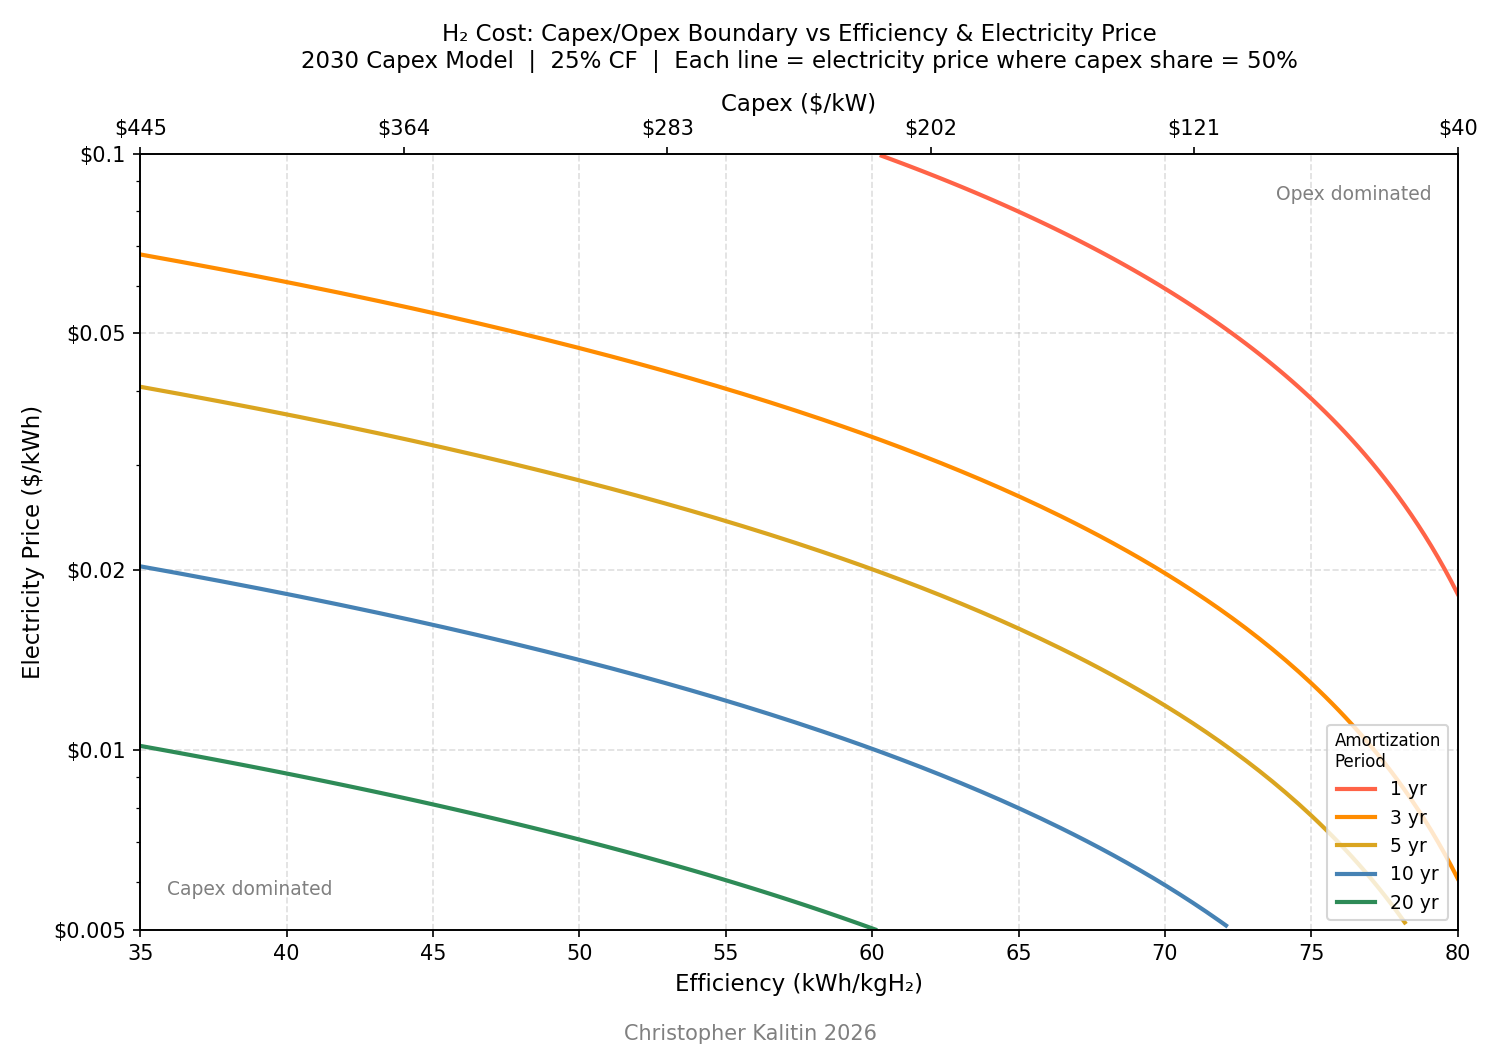
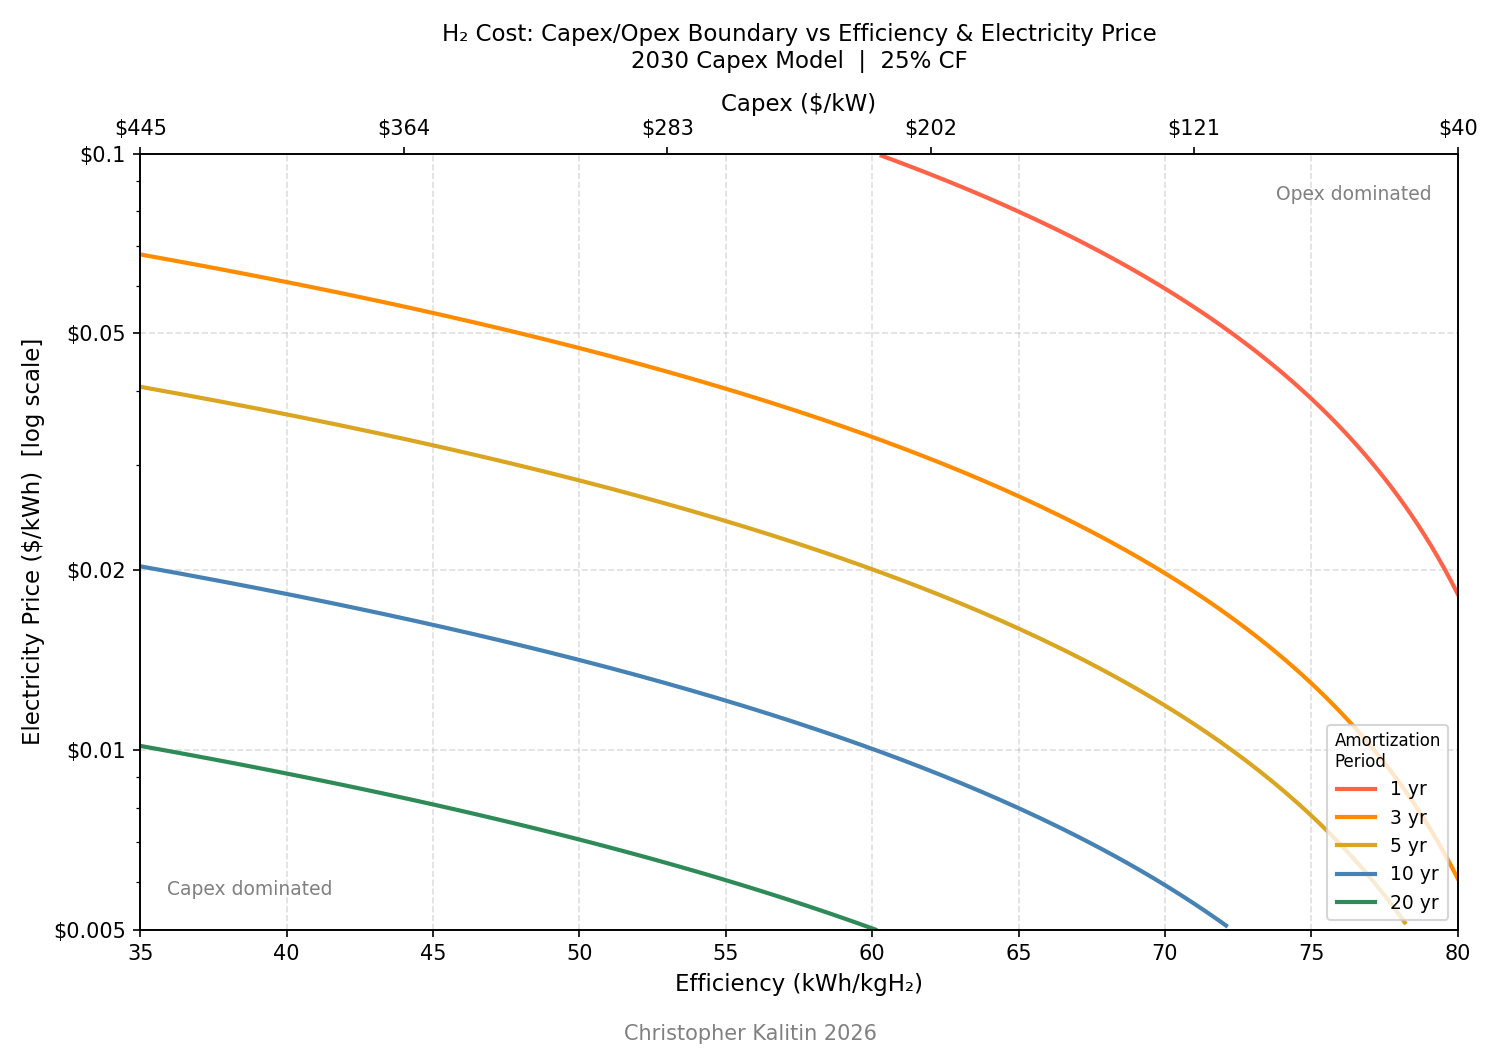
small

diff --git a/Terraformer-Economics/electrolyzer/electrolyzer_3d_contribution.py b/Terraformer-Economics/electrolyzer/electrolyzer_3d_contribution.py
@@ -56,7 +56,7 @@ ax.set_ylim(0.005, 0.10)
 ax.set_yticks([0.005, 0.01, 0.02, 0.05, 0.10])
 ax.yaxis.set_major_formatter(mticker.FuncFormatter(lambda x, _: f'${x:.3g}'))
 ax.set_xlabel('Efficiency (kWh/kgH\u2082)', fontsize=11)
-ax.set_ylabel('Electricity Price ($/kWh)', fontsize=11)
+ax.set_ylabel('Electricity Price ($/kWh)  [log scale]', fontsize=11)
 
 # --- Secondary capex axis (top) ---
 ax2 = ax.twiny()
@@ -69,7 +69,7 @@ ax2.set_xlabel('Capex ($/kW)', fontsize=11)
 # --- Title, legend, footer ---
 ax.set_title(
     'H\u2082 Cost: Capex/Opex Boundary vs Efficiency & Electricity Price\n'
-    '2030 Capex Model  |  25% CF  |  Each line = electricity price where capex share = 50%',
+    '2030 Capex Model  |  25% CF',
     fontsize=11, pad=12
 )
 
@@ -111,7 +111,7 @@ ax3d.yaxis.set_major_formatter(mticker.FuncFormatter(lambda x, _: f'${x:.3g}'))
 
 ax3d.set_title(
     'H\u2082 Cost: Capex Share vs Efficiency & Electricity Price\n'
-    '2030 Capex Model  |  25% CF  |  Bold lines = 50% boundary per amortization period',
+    '2030 Capex Model  |  25% CF',
     fontsize=14
 )
 
